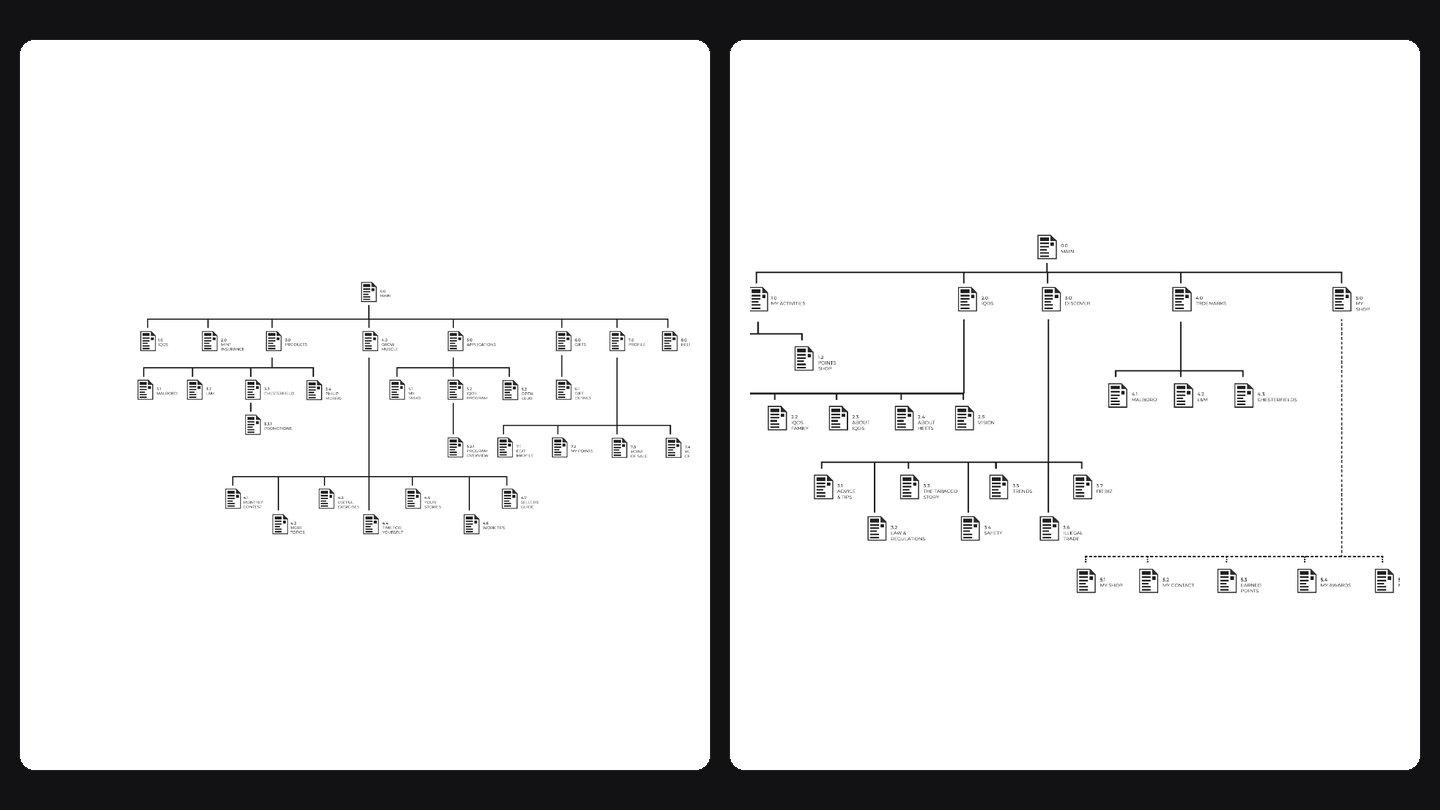
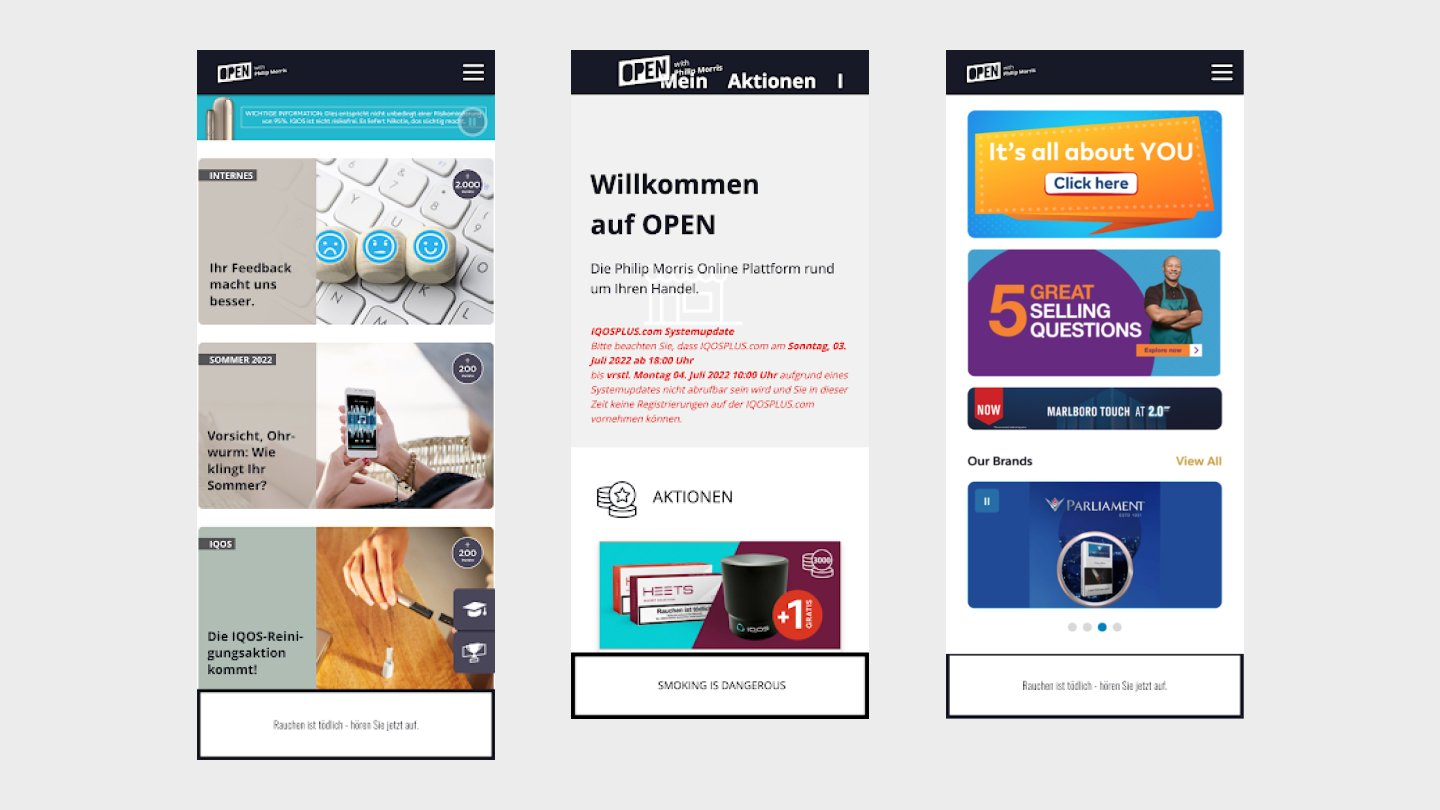
PMI: real images from the EU standardisation Figma file
Claude-Session: https://claude.ai/code/session_01AXHPT6AWr4FLTU6gsMczeY

diff --git a/content/case-studies/pmi.md b/content/case-studies/pmi.md
@@ -13,7 +13,7 @@ timeline: December 2022 to May 2023
 role: Senior UX Designer, project lead
 team: The Croc design and delivery team. Client side: PMI head office digital team, market leads from the five launch countries, IQOS brand team, compliance
 hero: hero.jpg
-heroAlt: The platform in two markets, same components, different hierarchy
+heroAlt: The redesigned homepage and Rewards screens on two phones
 outcomes:
   - 32% increase in time on platform
   - 12.6% increase in task submission
@@ -29,7 +29,7 @@ PMI's B2B retailer platform had grown differently in every European market. Prod
 The markets were not starting from the same place. Some needed the new platform badly. The largest, Germany, already had a site that worked for it and a clear view of what a replacement would have to do to be worth adopting. That was a fair test, and it became the standard the whole system was designed to meet.
 
 ::image full s1-before-state.jpg
-The same products, a different platform in every country. Two markets' sitemaps from the platform review: one with eight top-level sections and three levels of nesting, one that needed on-page navigation just to reach its own content.
+The same products, a different platform in every country. Three of the legacy German screens: a feed of promotions, a system notice as the welcome, and banners with no hierarchy between them.
 
 ### 2. The evidence came before the brief
 
@@ -41,8 +41,8 @@ Alongside that, a repeatable UX audit ran across the Middle East and Africa: Sou
 
 So when the European markets came to the table, the question of what retailers actually did on the platform had an answer before anyone in the room had an opinion.
 
-::image full s2-research-menus.jpg
-Three markets, three mobile menus. The platform review covered nine live markets; the one on the right has eleven top-level links. Cluttered navigation was the single most consistent finding, and it shaped the six-group architecture everything else sat on.
+::image pair s2-menus.jpg s2-analytics.jpg
+Left, three markets' mobile menus from the nine-market review; the one on the right has eleven top-level links. Right, the analytics audit: behaviour flow, page depth and tasking trends. Almost half of retailers who reached My Tasks left without visiting another page.
 
 ### 3. Define the constraints before designing to them
 
@@ -53,7 +53,7 @@ So I asked head office for a different kind of answer: not what they wanted, but
 That changed how the programme ran. Germany, with the most demanding requirements, became the proxy for every market: the variants it needed went into the shared system for all of them. The first release shipped with components that had originally been scoped for phase two, because the room to build them had been there all along; it just had not been named. The trade-off was real: smaller markets inherited a heavier system than they would have chosen on their own. Letting the most demanding market set the ceiling was the right call for the programme, not for every market in it.
 
 ::image pair s3-component-library.jpg s3-variants.jpg
-The limit was build effort, not brand. Once named, there was more room than anyone assumed. Left, the component library; right, the variants originally scoped for phase two, now in release one.
+The limit was build effort, not brand. Once named, there was more room than anyone assumed. Left, the design system: palettes, button states and input fields. Right, the same Rewards template in two configurations; the rewards carousel on the right was a phase-two variant that shipped in release one.
 
 ### 4. One hierarchy that fourteen markets could rearrange
 
@@ -69,4 +69,4 @@ Compliance drew the boundaries. Research settled the arguments inside them. Left
 Time on platform rose 32% and task submission 12.6% across the unified platform. The five launch markets went live on one component system, each with its own hierarchy, and it has since been rolled out to fourteen. The design decisions mattered, but the one that changed the project was getting the constraints defined early, and the one that made that possible was two years of evidence that meant nobody had to argue from instinct.
 
 ::image full s5-live-platform.jpg
-One system, fourteen hierarchies. The live platform in two markets side by side.
+One system, fourteen hierarchies. The homepage and My Tasks on the shipped template; every market reorders the same cards for its own catalogue.
